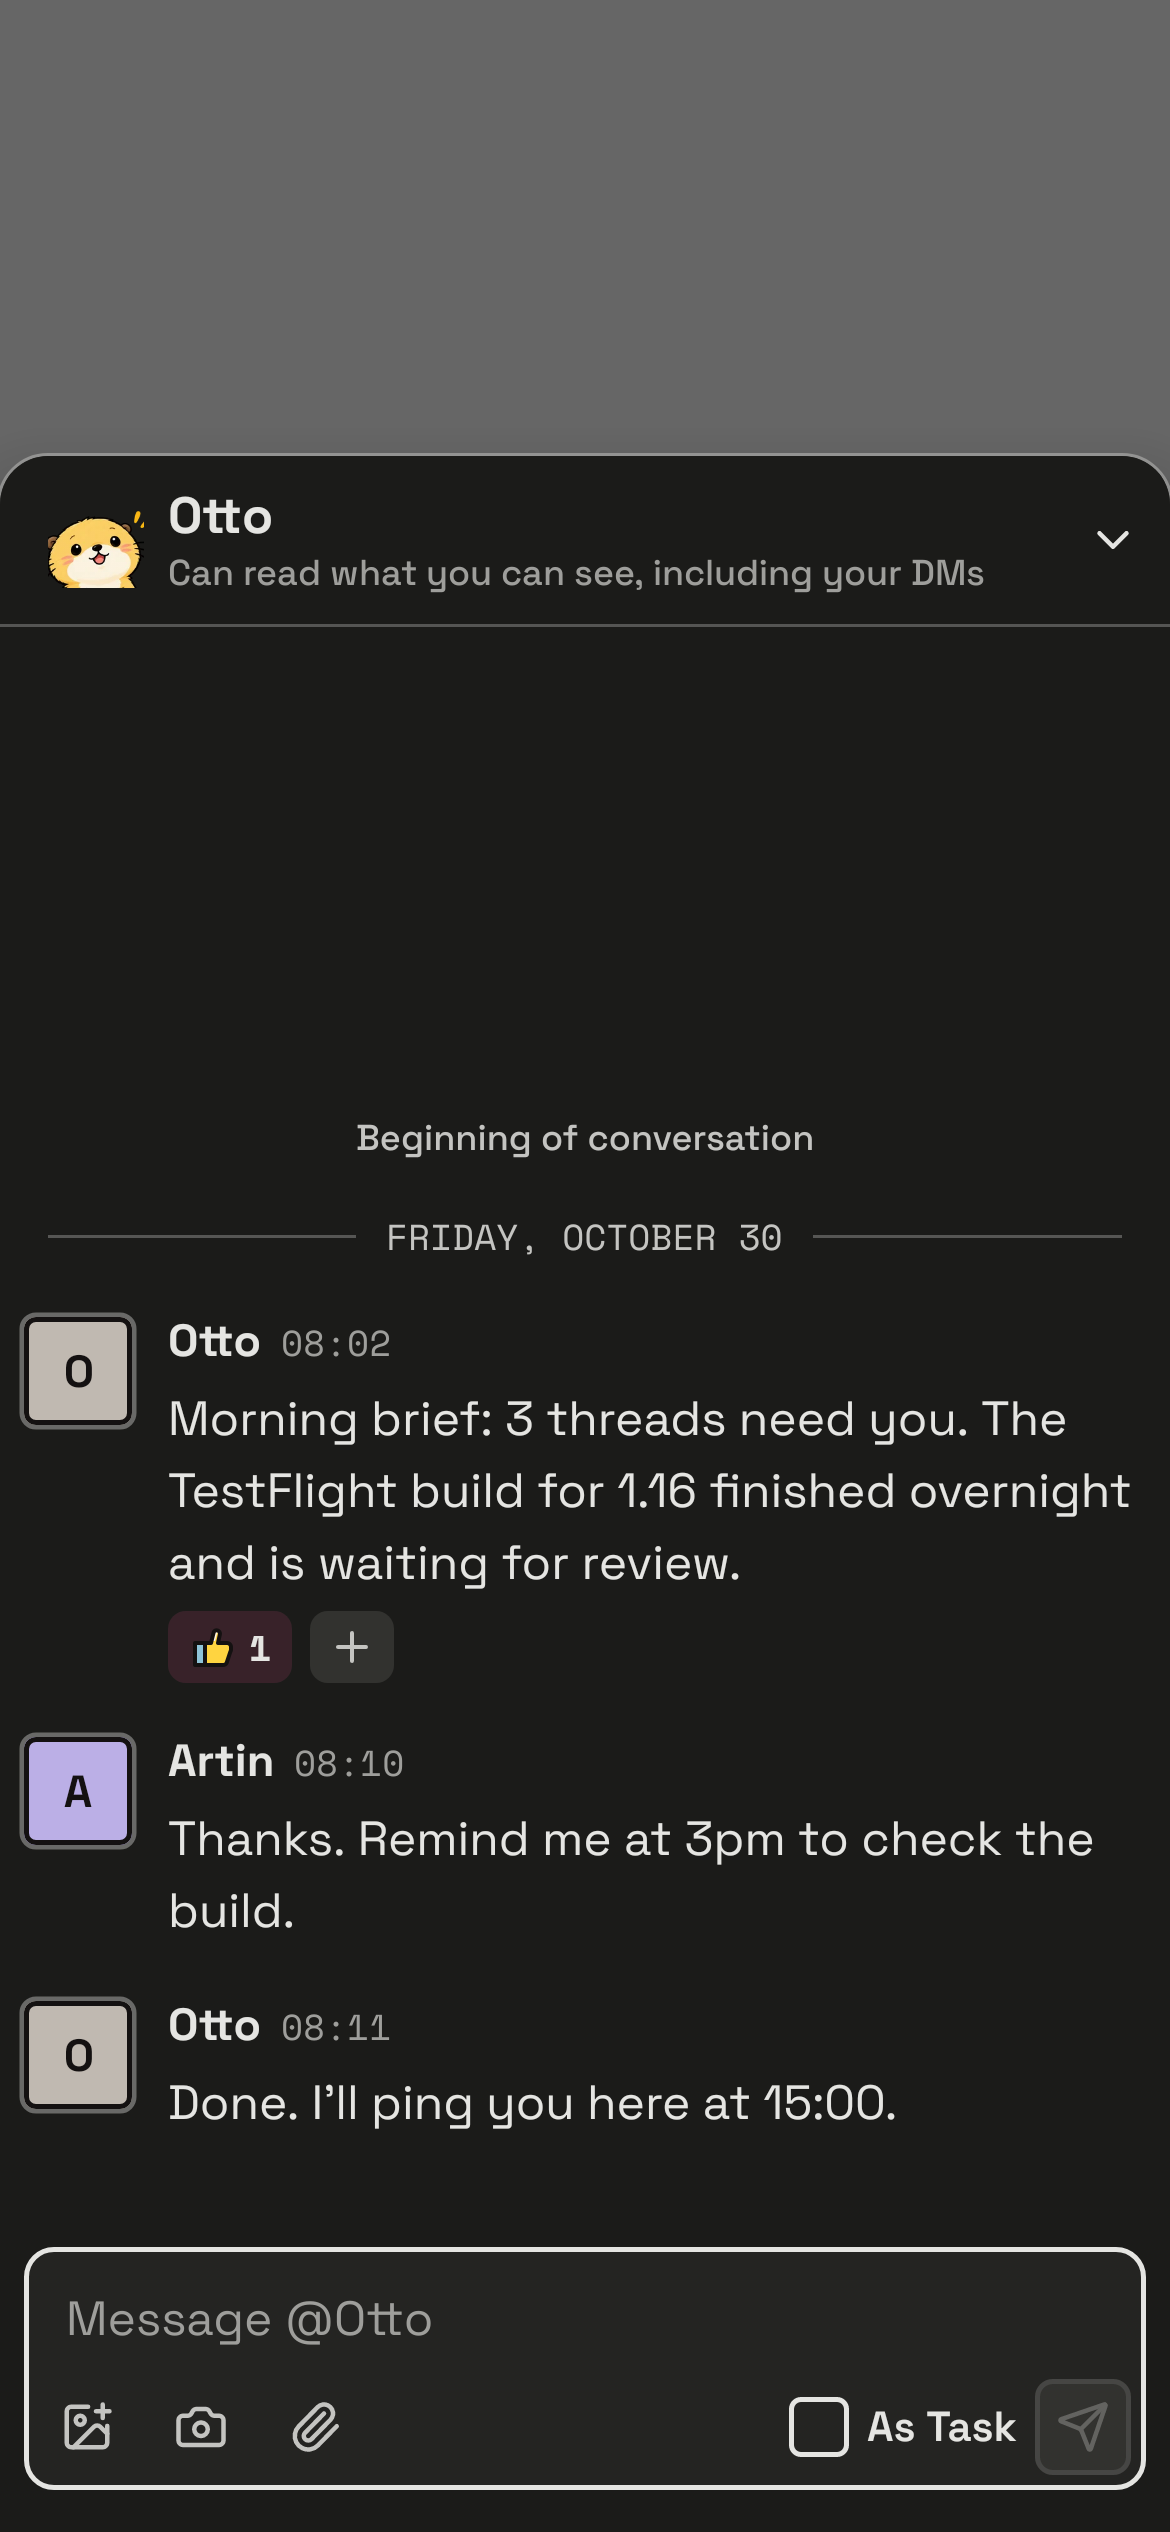
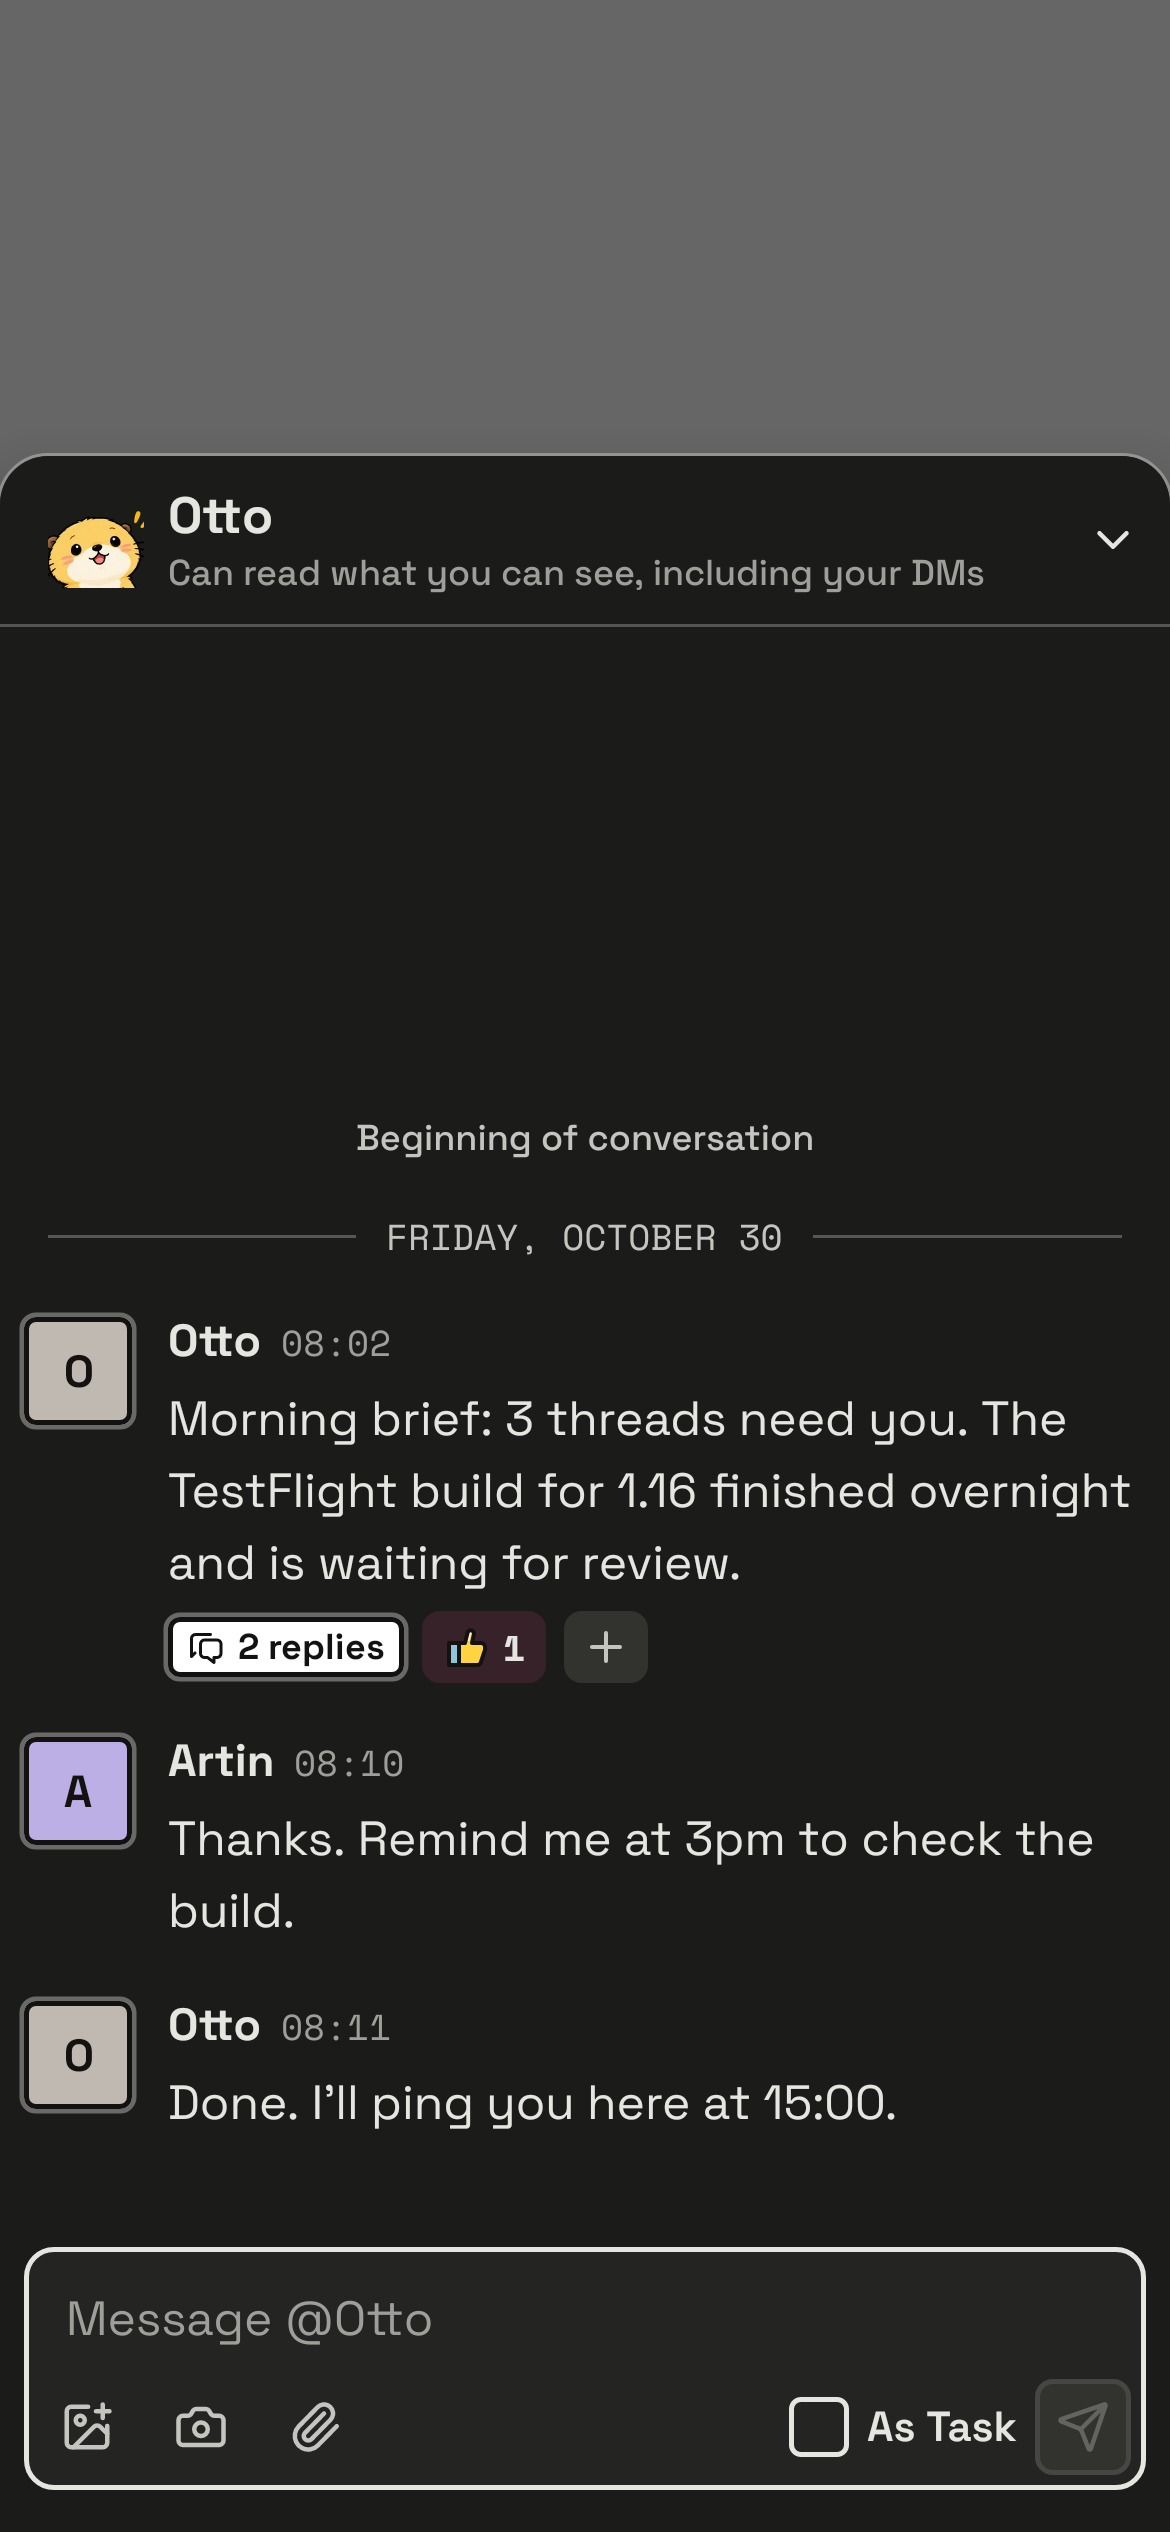
test(screenshots): re-record the assistant panel goldens (run 41684250073)
The three goldens that run recorded on 74c379a: the 2-reply panel message now
shows the replies badge. Adds the 1.19.1 changeset.

Changed region(s): [[0.1231, 0.624, 0.4615, 0.6864]]

diff --git a/change-logs/1.19.1/changesets/message-reply-count-badge.md b/change-logs/1.19.1/changesets/message-reply-count-badge.md
@@ -1,0 +1,22 @@
+---
+type: improved
+area: thread
+platforms:
+  - android
+  - ios
+  - desktop
+pull_request: https://github.com/botiverse/mobile/pull/4231
+rollout: full
+---
+
+## zh-CN
+
+有回复的消息在回复预览还没显示时，会在下方显示“5 条回复 · 2 条新回复”这样的标签，和网页版一致；有新回复时标签为浅蓝色，点一下就能打开讨论串。
+
+## en
+
+A message with replies now shows a label such as "5 replies · 2 new" under it when its reply previews aren't shown, as on the web. The label is light blue while there are new replies, and tapping it opens the thread.
+
+## ja
+
+返信のあるメッセージは、返信のプレビューが表示されていないとき、下に「5 件の返信 · 新着 2 件」のようなラベルが表示されるようになりました（Web 版と同じ）。新しい返信があるときは薄い青になり、タップするとスレッドが開きます。
